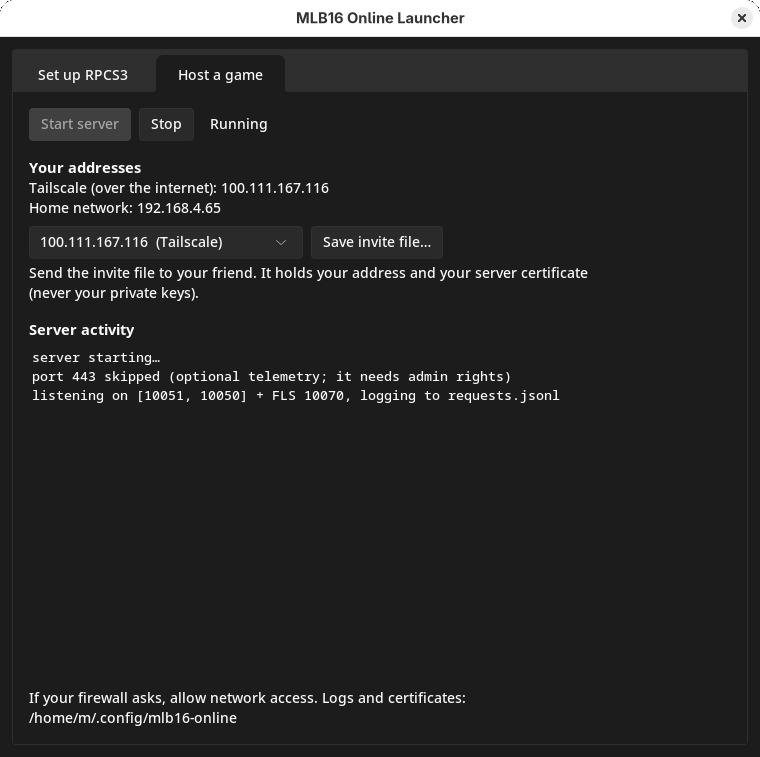
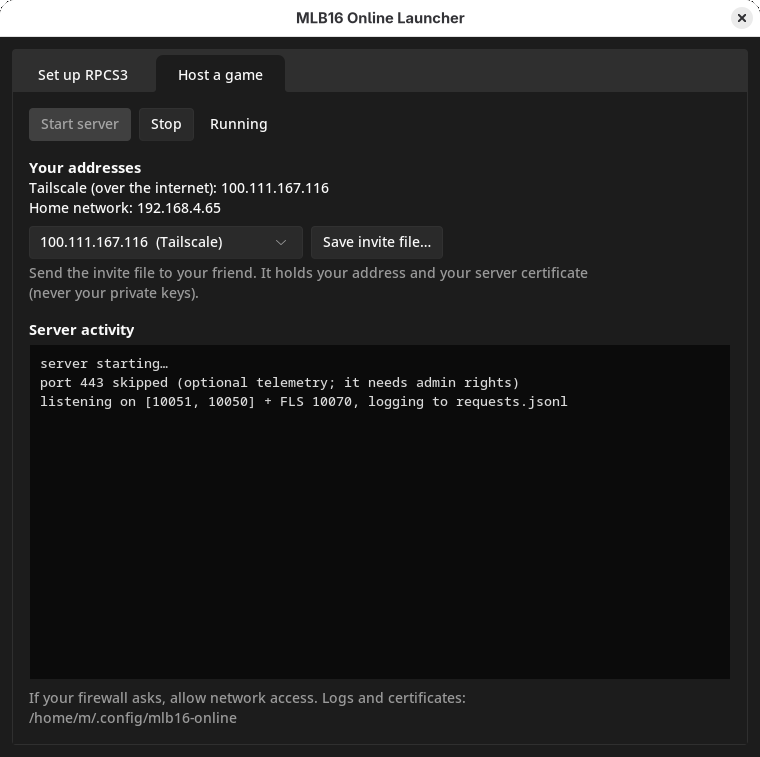
Launcher: hint/link colours and a terminal-dark activity box now show on Linux (sv_ttk's repeated palette repaint was wiping them); README screenshots updated

diff --git a/app/mlb16_online.py b/app/mlb16_online.py
@@ -101,8 +101,16 @@ class App(tk.Tk):
         try:
             import sv_ttk
             sv_ttk.set_theme('dark')
+            # sv_ttk recolours every widget (tk_setPalette) on each <<ThemeChanged>>, and Tk 9 sends one after the first
+            # ttk widget and after every style.configure, wiping our hint/link/log colours. Apply its palette once
+            # now, before any widget exists, then disable it.
+            self.tk.call('configure_colors')
+            self.tk.eval('proc configure_colors {} {}')
         except Exception:   # the app works with the plain ttk theme too
             pass
+        style = ttk.Style(self)
+        style.configure('Hint.TLabel', foreground='#9a9a9a')   # fixed colours: "gray" differs between platforms
+        style.configure('Link.TLabel', foreground='#4ea1ff')
         self.cfg = Settings()
         self.server = None
         self.lines = queue.Queue()
@@ -128,7 +136,7 @@ class App(tk.Tk):
         ttk.Entry(f, textvariable=self.rpcs3_dir).grid(row=1, column=0, columnspan=2, sticky='ew', pady=4)
         ttk.Button(f, text='Browse…', command=self.pick_rpcs3).grid(row=1, column=2, padx=(8, 0))
         hint = ('The folder with rpcs3.exe.' if sys.platform == 'win32' else 'Usually found automatically.')
-        ttk.Label(f, text=hint, foreground='gray').grid(row=2, column=0, columnspan=3, sticky='w')
+        ttk.Label(f, text=hint, style='Hint.TLabel').grid(row=2, column=0, columnspan=3, sticky='w')
 
         ttk.Label(f, text='Who runs the server?', font=('', 11, 'bold')).grid(row=3, column=0, columnspan=3,
                                                                                 sticky='w', pady=(16, 0))
@@ -138,7 +146,7 @@ class App(tk.Tk):
         ttk.Radiobutton(f, text='A friend, who sent me an invite file', variable=self.mode, value='join',
                         command=self.refresh).grid(row=5, column=0, columnspan=2, sticky='w', pady=2)
         ttk.Button(f, text='Open invite…', command=self.open_invite).grid(row=5, column=2, padx=(8, 0))
-        self.invite_label = ttk.Label(f, foreground='gray')
+        self.invite_label = ttk.Label(f, style='Hint.TLabel')
         self.invite_label.grid(row=6, column=0, columnspan=3, sticky='w', padx=(28, 0))
 
         ttk.Label(f, text='Options', font=('', 11, 'bold')).grid(row=7, column=0, columnspan=3, sticky='w',
@@ -164,7 +172,7 @@ class App(tk.Tk):
 
         self.status = ttk.Label(f, justify='left')
         self.status.grid(row=13, column=0, columnspan=3, sticky='w', pady=(16, 0))
-        link = ttk.Label(f, text='Setup guide and help', foreground='#4ea1ff', cursor='hand2')
+        link = ttk.Label(f, text='Setup guide and help', style='Link.TLabel', cursor='hand2')
         link.grid(row=14, column=0, columnspan=3, sticky='w', pady=(12, 0))
         link.bind('<Button-1>', lambda e: webbrowser.open(REPO))
         return f
@@ -305,14 +313,15 @@ class App(tk.Tk):
         self.invite_ip.pack(side='left')
         ttk.Button(inv, text='Save invite file…', command=self.save_invite).pack(side='left', padx=8)
         ttk.Label(f, text='Send the invite file to your friend. It holds your address and your server certificate '
-                          '(never your private keys).', foreground='gray', wraplength=580, justify='left').grid(
+                          '(never your private keys).', style='Hint.TLabel', wraplength=580, justify='left').grid(
             row=4, column=0, sticky='w', pady=(4, 0))
 
         ttk.Label(f, text='Server activity', font=('', 11, 'bold')).grid(row=5, column=0, sticky='w', pady=(16, 0))
-        self.log = tk.Text(f, height=12, wrap='word', state='disabled', relief='flat')
+        self.log = tk.Text(f, height=12, wrap='word', state='disabled', relief='flat', borderwidth=0,
+                           background='#0b0b0b', foreground='#d8d8d8', padx=10, pady=8)   # terminal-like
         self.log.grid(row=6, column=0, sticky='nsew', pady=(4, 0))
         ttk.Label(f, text=f'If your firewall asks, allow network access. Logs and certificates: {s.data_dir()}',
-                  foreground='gray', wraplength=580, justify='left').grid(row=7, column=0, sticky='w', pady=(8, 0))
+                  style='Hint.TLabel', wraplength=580, justify='left').grid(row=7, column=0, sticky='w', pady=(8, 0))
         self.show_addresses()
         return f
 
